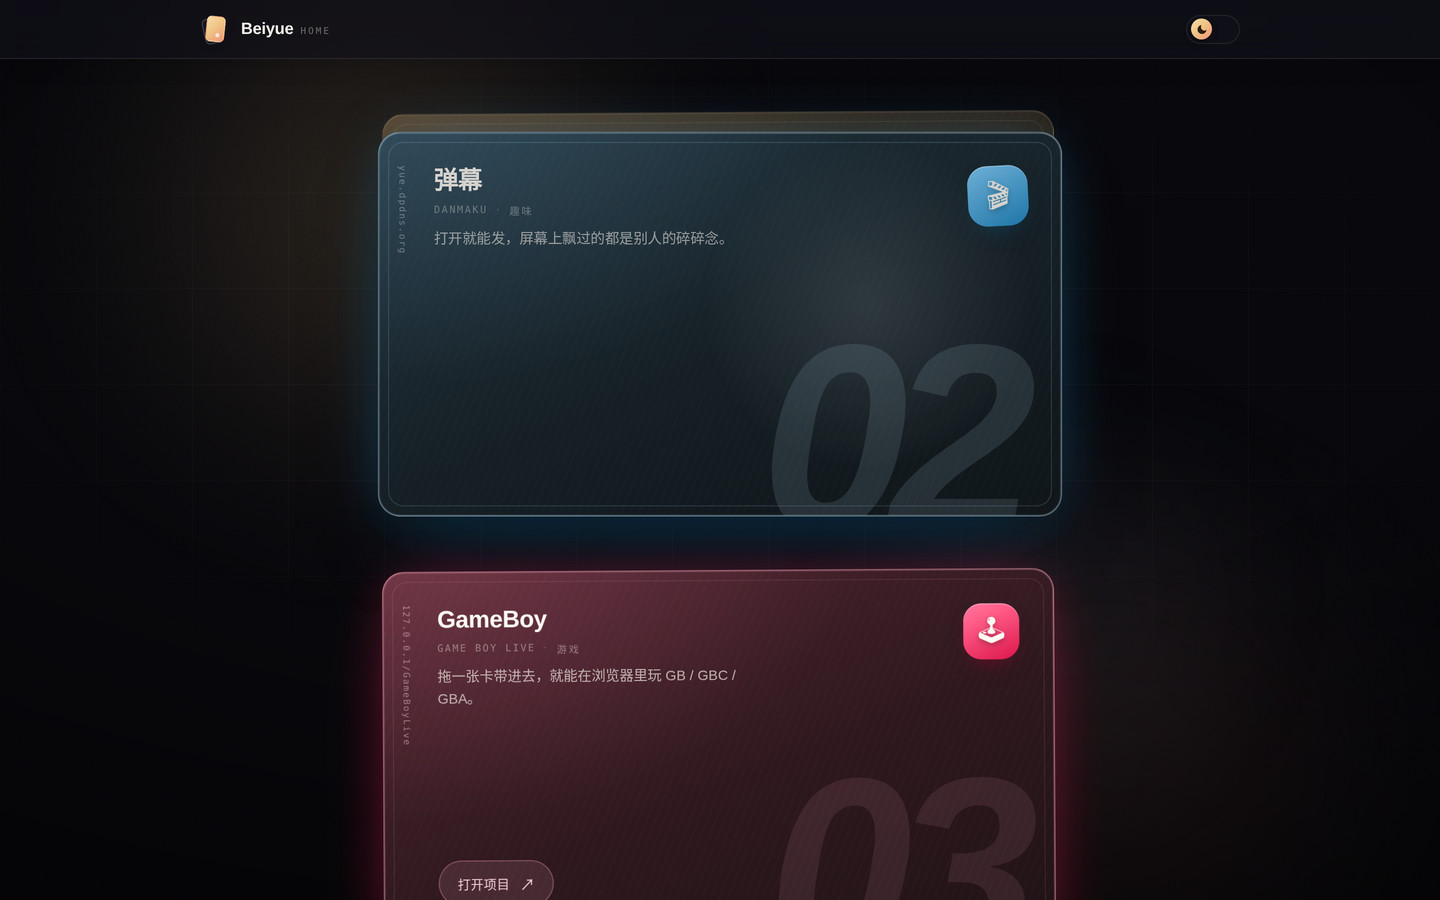
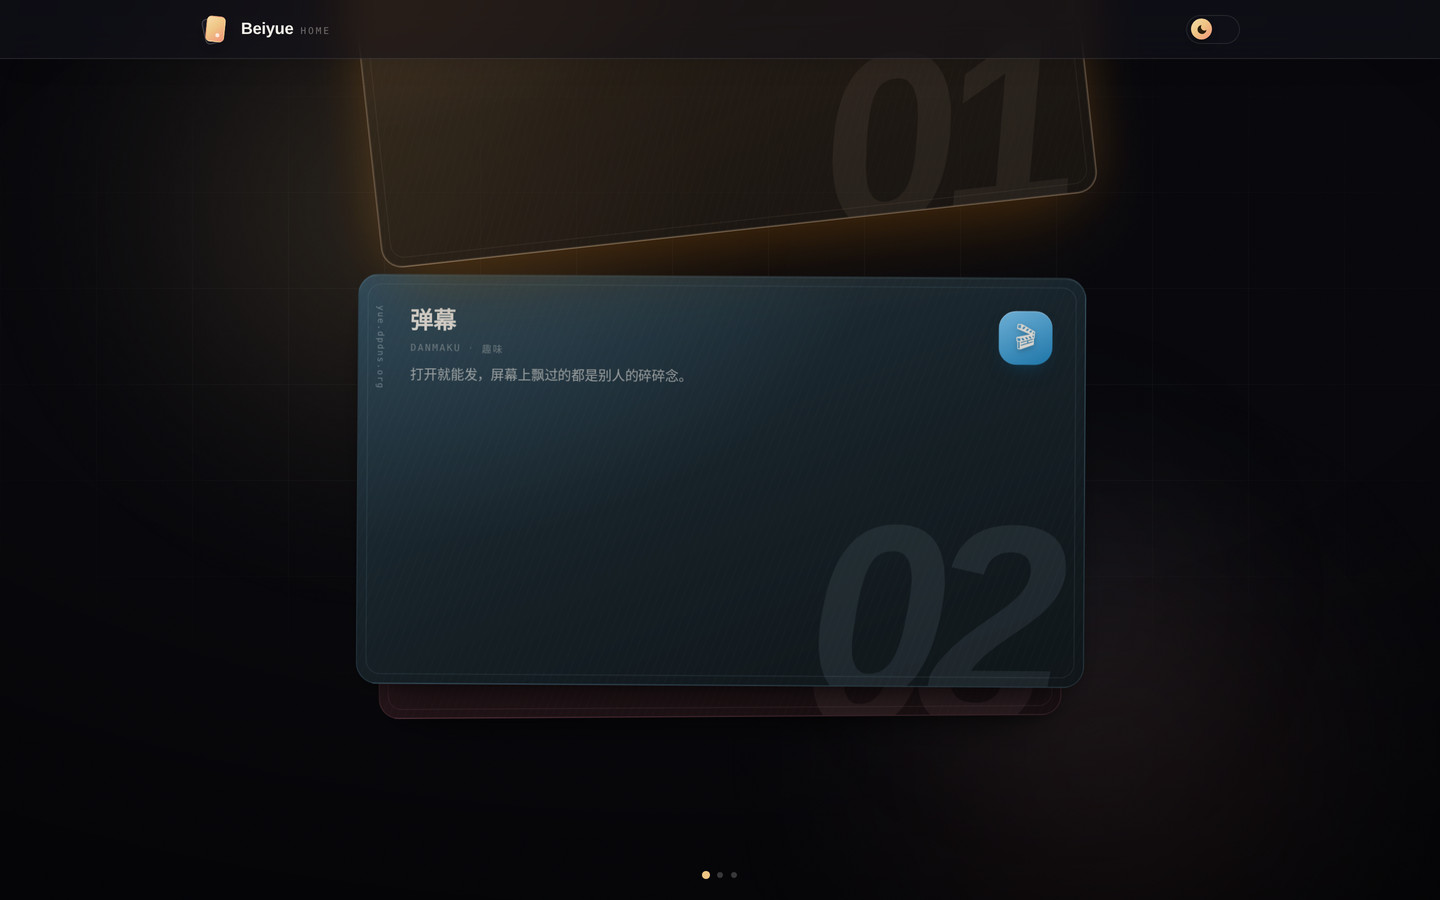
feat: rename image host to Imghub, add danmaku card, card lift effect

Changed region(s): [[0.25, 0.0622, 0.7812, 1.0], [0.5625, 0.3422, 0.75, 0.4667], [0.5312, 0.56, 0.7188, 0.5911]]

diff --git a/src/components/Deck.vue b/src/components/Deck.vue
@@ -1,56 +1,85 @@
 <script setup>
-import { onBeforeUnmount, onMounted, ref } from 'vue'
+import { computed, nextTick, onBeforeUnmount, onMounted, ref, watch } from 'vue'
 import DeckCard from './DeckCard.vue'
 
-defineProps({
+const props = defineProps({
   apps: { type: Array, default: () => [] },
   deal: { type: Number, default: 0 }
 })
 const emit = defineEmits(['clear'])
 
 const deckEl = ref(null)
+const stageEl = ref(null)
+const progress = ref(0)
+const count = computed(() => props.apps.length)
+
+/** 每一张牌占 80% 屏高，末尾再留一屏收尾 */
+const sectionHeight = computed(() => `${Math.max(1, count.value - 1) * 80 + 100}vh`)
+
 let raf = 0
 
-/** 滚动时只让「当前那张」突出：其余压暗 */
-function updateActive() {
-  const items = Array.from(deckEl.value?.querySelectorAll('.deck__item') || [])
-  if (!items.length) return
-  // 当前突出的，是最上面那张「已经升起」的牌：它的顶边一进入视口就算数
-  const vh = window.innerHeight
-  let active = 0
-  for (let i = 0; i < items.length; i++) {
-    if (items[i].getBoundingClientRect().top < vh * 0.9) active = i
-  }
-  items.forEach((el, i) => el.classList.toggle('is-active', i === active))
+function clamp(v, min, max) {
+  return Math.min(max, Math.max(min, v))
+}
+
+/** 滚动进度 → 每张牌的层叠位置（0 = 最前面那张） */
+function frame() {
   raf = 0
+  const section = deckEl.value
+  if (!section) return
+  const vh = window.innerHeight
+  const step = vh * 0.8
+  const top = section.getBoundingClientRect().top + window.scrollY
+  const p = clamp((window.scrollY - top) / step, 0, Math.max(0, count.value - 1))
+  progress.value = p
+
+  const items = Array.from(stageEl.value?.querySelectorAll('.deck__item') || [])
+  items.forEach((el, i) => {
+    const offset = i - p // 0 在最前；正数叠在后面；负数已经翻过去
+    let transform = ''
+    let opacity = 1
+
+    if (offset >= 0) {
+      // 后面的牌：略微缩小、向下错开，露出一条边；轮到它时自然向上归位
+      const d = Math.min(offset, 3)
+      transform = `translate3d(0, ${d * 44}px, 0) scale(${1 - d * 0.06})`
+      opacity = offset > 2.7 ? 0 : 1
+    } else {
+      // 翻过去的牌：加速向上飞走并淡出，把位置让给下一张
+      const t = Math.min(1, -offset)
+      const ease = 1 - Math.pow(1 - t, 3)
+      transform = `translate3d(0, ${-ease * 150}%, 0) rotate(${-ease * 9}deg) scale(${1 - ease * 0.08})`
+      opacity = Math.max(0, 1 - t * 1.15)
+    }
+
+    el.style.transform = transform
+    el.style.opacity = String(opacity)
+    el.style.zIndex = String(20 - i)
+    el.style.pointerEvents = offset > 0.5 ? 'none' : 'auto'
+    el.inert = offset > 0.5
+    el.classList.toggle('is-active', Math.abs(offset) < 0.6)
+  })
 }
+
 function onScroll() {
-  if (!raf) raf = requestAnimationFrame(updateActive)
+  if (!raf) raf = requestAnimationFrame(frame)
 }
 
-onMounted(() => {
-  updateActive()
-  window.addEventListener('scroll', onScroll, { passive: true })
-  window.addEventListener('resize', onScroll)
-})
-onBeforeUnmount(() => {
-  window.removeEventListener('scroll', onScroll)
-  window.removeEventListener('resize', onScroll)
-  if (raf) cancelAnimationFrame(raf)
-})
+function scrollToIndex(index) {
+  const section = deckEl.value
+  if (!section) return
+  const vh = window.innerHeight
+  const top = section.getBoundingClientRect().top + window.scrollY
+  window.scrollTo({ top: top + index * vh * 0.8, behavior: 'smooth' })
+}
 
-/** ↑↓ / ←→ 在牌堆里移动焦点，Enter 由链接自己处理 */
 function moveFocus(step) {
-  const cards = Array.from(deckEl.value?.querySelectorAll('.card') || [])
+  const cards = Array.from(stageEl.value?.querySelectorAll('.card') || [])
   if (!cards.length) return
   const current = cards.indexOf(document.activeElement)
-  const next =
-    current === -1
-      ? step > 0
-        ? 0
-        : cards.length - 1
-      : Math.min(Math.max(current + step, 0), cards.length - 1)
-  cards[next]?.focus()
+  const next = current === -1 ? 0 : Math.min(Math.max(current + step, 0), cards.length - 1)
+  scrollToIndex(next)
+  window.setTimeout(() => cards[next]?.focus({ preventScroll: true }), 420)
 }
 
 function onKeydown(event) {
@@ -62,21 +91,48 @@ function onKeydown(event) {
   } else if (key === 'ArrowUp' || key === 'ArrowLeft') {
     event.preventDefault()
     moveFocus(-1)
-  } else if (key === 'Home') {
-    event.preventDefault()
-    moveFocus(-999)
-  } else if (key === 'End') {
-    event.preventDefault()
-    moveFocus(999)
   }
 }
+
+// 搜索 / 洗牌后 DOM 重建，需要重新算一次层叠位置
+watch(
+  () => props.apps.map((a) => a.id).join('|') + '#' + props.deal,
+  () => nextTick(frame)
+)
+
+onMounted(() => {
+  frame()
+  window.addEventListener('scroll', onScroll, { passive: true })
+  window.addEventListener('resize', onScroll)
+})
+onBeforeUnmount(() => {
+  window.removeEventListener('scroll', onScroll)
+  window.removeEventListener('resize', onScroll)
+  if (raf) cancelAnimationFrame(raf)
+})
 </script>
 
 <template>
   <div class="deck-root">
-    <div v-if="apps.length" ref="deckEl" class="deck" @keydown="onKeydown">
-      <div v-for="(app, i) in apps" :key="`${app.id}-${deal}`" class="deck__item" :style="{ '--i': i }">
-        <DeckCard :app="app" :index="i" :is-last="i === apps.length - 1" />
+    <div v-if="apps.length" ref="deckEl" class="deck" :style="{ height: sectionHeight }">
+      <div ref="stageEl" class="deck__stage" @keydown="onKeydown">
+        <div
+          v-for="(app, i) in apps"
+          :key="`${app.id}-${deal}`"
+          class="deck__item"
+          :style="{ '--i': i }"
+        >
+          <DeckCard :app="app" :index="i" :is-last="i === apps.length - 1" />
+        </div>
+
+        <div class="deck__dots" aria-hidden="true">
+          <span
+            v-for="(app, i) in apps"
+            :key="app.id"
+            class="deck__dot"
+            :class="{ 'is-on': Math.round(progress) === i }"
+          />
+        </div>
       </div>
     </div>
 
@@ -92,24 +148,58 @@ function onKeydown(event) {
 <style scoped>
 .deck-root {
   width: 100%;
-  max-width: 520px;
-  margin-inline: auto;
-  padding-inline: clamp(18px, 5vw, 28px);
+  --card-w: min(100%, 760px);
   --card-rw: 3;
   --card-rh: 4;
 }
 
 .deck {
-  display: flex;
-  flex-direction: column;
+  position: relative;
+  width: 100%;
 }
 
-/* 上下滑动时，牌一张接一张地压上来，只在顶部留一窄条 */
-.deck__item {
+/* 叠卡舞台：占满一屏、吸顶，所有牌叠在同一格里 */
+.deck__stage {
   position: sticky;
-  top: calc(88px + var(--i, 0) * 20px);
-  z-index: calc(var(--i, 0) + 1);
-  margin-bottom: 48vh;
+  top: 0;
+  height: 100vh;
+  display: grid;
+  place-items: center;
+  padding-inline: 18px;
+}
+
+.deck__item {
+  grid-area: 1 / 1;
+  width: var(--card-w);
+  transform-origin: 50% 50%;
+  will-change: transform, opacity;
+  transition: transform 120ms linear, opacity 120ms linear;
+}
+
+/* 舞台底部的页码点 */
+.deck__dots {
+  position: absolute;
+  left: 50%;
+  bottom: max(22px, env(safe-area-inset-bottom));
+  transform: translateX(-50%);
+  display: flex;
+  gap: 8px;
+  z-index: 60;
+  pointer-events: none;
+}
+
+.deck__dot {
+  width: 6px;
+  height: 6px;
+  border-radius: 50%;
+  background: var(--line-strong);
+  transition: background var(--dur-base) var(--ease-out),
+    transform var(--dur-base) var(--ease-spring);
+}
+
+.deck__dot.is-on {
+  background: var(--accent);
+  transform: scale(1.35);
 }
 
 .empty {
@@ -117,6 +207,8 @@ function onKeydown(event) {
   flex-direction: column;
   align-items: center;
   gap: 8px;
+  margin-inline: auto;
+  max-width: 520px;
   padding: clamp(56px, 10vw, 96px) 24px;
   border: 1px dashed var(--line-strong);
   border-radius: var(--radius-card);
@@ -149,16 +241,22 @@ function onKeydown(event) {
   background: var(--surface);
 }
 
+@media (max-width: 899.98px) {
+  .deck-root {
+    --card-w: min(calc(100vw - 40px), 520px);
+  }
+}
+
 @media (min-width: 900px) {
   .deck-root {
-    max-width: 720px;
-    padding-inline: 24px;
     --card-rw: 16;
     --card-rh: 9;
   }
+}
+
+@media (prefers-reduced-motion: reduce) {
   .deck__item {
-    top: calc(112px + var(--i, 0) * 26px);
-    margin-bottom: 44vh;
+    transition: none;
   }
 }
 </style>

diff --git a/src/styles/card.css b/src/styles/card.css
@@ -342,7 +342,7 @@
   filter: brightness(0.88) saturate(0.9);
 }
 
-/* ── 竖屏：比例收一点，序号小一点 ──────────────────────── */
+/* ── 竖屏：字号收一点 ──────────────────────────────────── */
 @media (max-width: 899.98px) {
   .card__corner {
     padding: 22px 18px 16px 40px;
@@ -352,6 +352,9 @@
   }
   .card__series {
     font-size: 150px;
+  }
+  .card__desc {
+    font-size: 0.8rem;
   }
 }
 

diff --git a/README.md b/README.md
@@ -7,8 +7,8 @@ Vue 3 + Vite，无 UI 框架，样式手写。
 ## 特点
 
 - **牌堆**：纵向叠放，只露出每张牌的顶部一条；悬停抽出、放大、提亮，其余牌压暗
-- **滚动堆叠**：上下滑动时牌一张张压上来，当前那张自动突出、其余压暗
-- **移动端**：与桌面同款堆叠交互，按下先高亮再跳转
+- **叠卡翻页**：卡牌像一摞牌叠在一起，上下滑动把最上面一张翻走、下一张顶上来
+- **移动端**：与桌面同款叠卡交互，底部有页码点
 - **搜索 / 洗牌 / 键盘**：`/` 搜索、`↑↓` 换牌、`Enter` 打开、`Esc` 清空
 - **内置模拟器**：`/GameBoyLive/` 是一台跑在浏览器里的 GB / GBC / GBA
 
